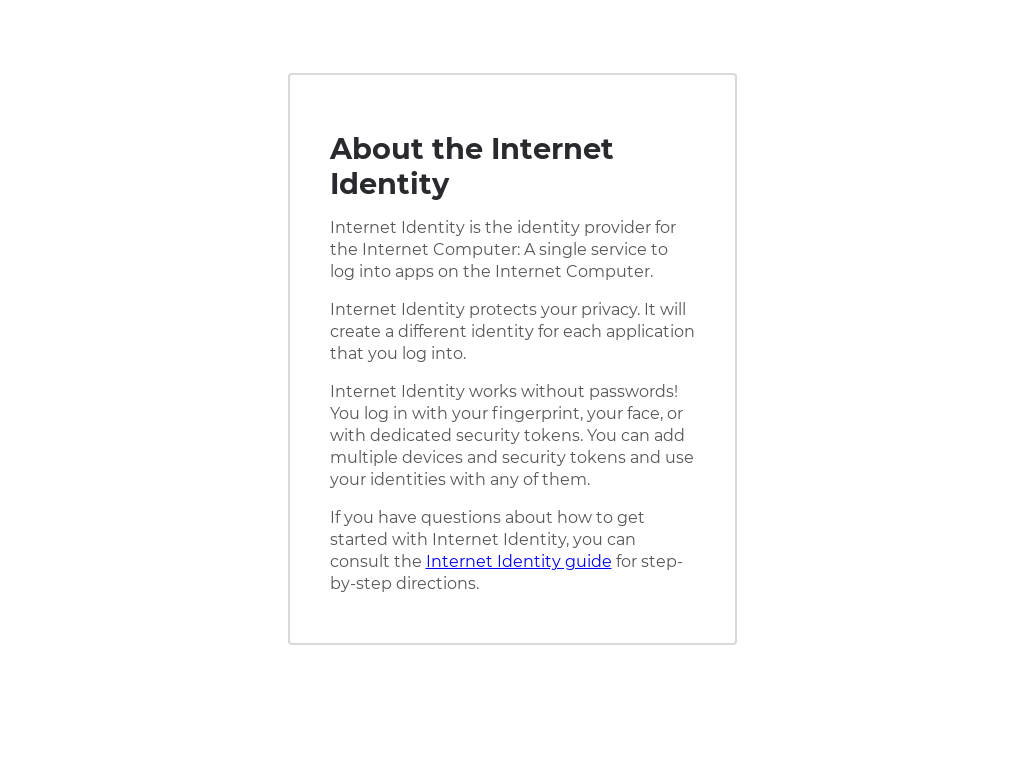
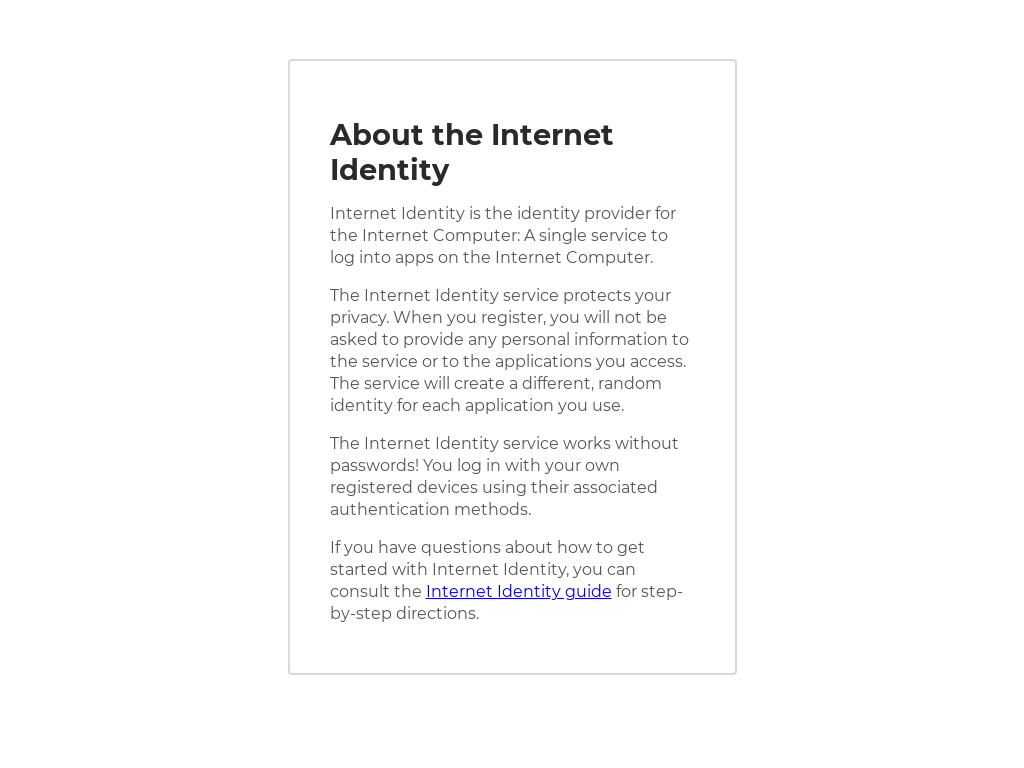
Refine wording on about page (#237)
* Refine wording on about page

as contributed by @Eve832  on slack

* Updating selenium screenshots

Changed region(s): [[0.3125, 0.1562, 0.6875, 0.8125], [0.2812, 0.0625, 0.3125, 0.0938]]

diff --git a/src/frontend/src/flows/about.ts b/src/frontend/src/flows/about.ts
@@ -14,14 +14,11 @@ const pageContent = html`
       single service to log into apps on the Internet Computer.
     </p>
     <p>
-      Internet Identity protects your privacy. It will create a different
-      identity for each application that you log into.
+      The Internet Identity service protects your privacy. When you register, you will not be asked to provide any personal information to the service or to the applications you access.
+The service will create a different, random identity for each application you use.
     </p>
     <p>
-      Internet Identity works without passwords! You log in with your
-      fingerprint, your face, or with dedicated security tokens. You can add
-      multiple devices and security tokens and use your identities with any of
-      them.
+      The Internet Identity service works without passwords! You log in with your own registered devices using their associated authentication methods.
     </p>
     <p>
       If you have questions about how to get started with Internet Identity, you
